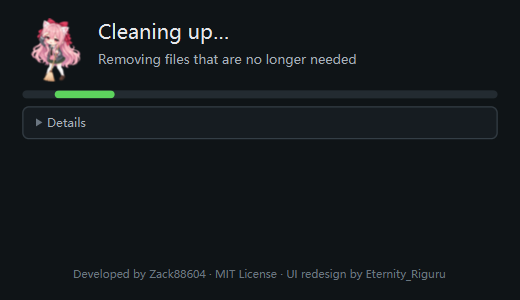
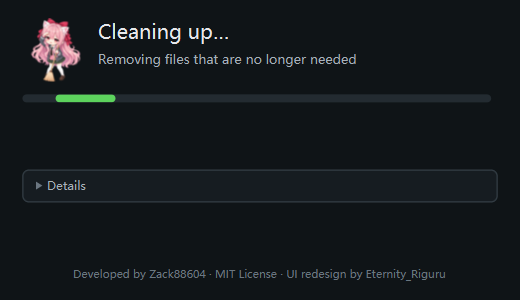
MODIFY: The updater will no longer automatically close the window when it is in an ERROR state, making it easier for users to view the logs

diff --git a/agent/javafx/JavaFxUpdateView.java b/agent/javafx/JavaFxUpdateView.java
@@ -375,6 +375,10 @@ class JavaFxUpdateView implements UpdateView {
         lblStatus.setText("Update failed");
         lblDescription.setText(msg);
         showLog("[ERROR] " + msg);
+        if (debug) {
+            setCloseEnabled(true);
+            showLog("[DEBUG] Update check failed. Window stays open for inspection.");
+        }
     }
 
     /** Enable or disable the debug close button. */
@@ -461,11 +465,13 @@ class JavaFxUpdateView implements UpdateView {
                 // (e.g. a previous 100%), expands Details and shows a few
                 // more log rows for the failure context. The row count is
                 // raised before expanding so the expansion-driven resize
-                // sees the final content height.
+                // sees the final content height. The bar's row stays managed
+                // (only its visibility is toggled) so the Details pane below
+                // keeps a fixed position and never jumps as the bar appears
+                // or disappears.
                 overallBar.setProgress(0);
                 lblOverallPct.setText("");
                 overallArea.setVisible(false);
-                overallArea.setManaged(false);
                 logArea.setPrefRowCount(10);
                 detailsPane.setExpanded(true);
                 root.getStyleClass().add("error-state");
@@ -482,33 +488,32 @@ class JavaFxUpdateView implements UpdateView {
         applyWindowHeight();
     }
 
-    /** Hide the overall percentage label, clearing any stale text. */
+    /** Hide the overall percentage label, clearing any stale text. The label
+     *  stays managed (only its width slot collapses) so the overall row keeps
+     *  its height — the 12px label is taller than the 8px bar, so un-managing
+     *  it would shrink the row and shift the Details pane below. */
     private void clearOverallPercent() {
         lblOverallPct.setText("");
         lblOverallPct.setVisible(false);
-        lblOverallPct.setManaged(false);
+        lblOverallPct.setPrefWidth(0);
     }
 
     /** Show the overall percentage label next to the bar. */
     private void showOverallPercent() {
         lblOverallPct.setVisible(true);
-        lblOverallPct.setManaged(true);
+        lblOverallPct.setPrefWidth(44);
     }
 
-    /** Reveal the current-file area; grows the window only on the show/hide flip. */
+    /** Reveal the current-file area. Its row is always reserved in the layout,
+     *  so showing it changes no heights and the window never resizes on the flip. */
     private void showDownloadArea() {
-        boolean wasVisible = dlArea.isVisible();
         dlArea.setVisible(true);
-        dlArea.setManaged(true);
-        if (!wasVisible) {
-            applyWindowHeight();
-        }
     }
 
-    /** Hide and clear the current-file area. */
+    /** Hide and clear the current-file area. The row stays managed so the
+     *  Details pane below keeps a fixed position. */
     private void hideDownloadArea() {
         dlArea.setVisible(false);
-        dlArea.setManaged(false);
         lblDlFile.setText("");
         dlBar.setProgress(0);
         lblDlSpeed.setText("");
@@ -903,8 +908,9 @@ class JavaFxUpdateView implements UpdateView {
         dlBar.getStyleClass().add("file-progress");
         lblDlSpeed.getStyleClass().add("download-speed");
         dlArea.getChildren().addAll(lblDlFile, dlBar, lblDlSpeed);
+        // Starts hidden but keeps its row in the layout (managed stays true):
+        // reserving the space pins the Details pane below it to one position.
         dlArea.setVisible(false);
-        dlArea.setManaged(false);
 
         // Details area: Server URL, Game Directory and the full log. Collapsed
         // in normal mode, expanded in debug mode (and on error).

diff --git a/agent/src/UpdateController.java b/agent/src/UpdateController.java
@@ -30,6 +30,10 @@ final class UpdateController implements UpdateListener, UpdateViewListener {
     private final CountDownLatch latch;
     private final boolean debug;
 
+    /** True once the flow has ended in failure — the window then stays open and
+     *  only closes when the user closes it (exiting without launching Minecraft). */
+    private volatile boolean failed;
+
     private volatile UpdateView view;
 
     UpdateController(UpdateService service, UiDispatcher dispatcher,
@@ -114,11 +118,20 @@ final class UpdateController implements UpdateListener, UpdateViewListener {
 
     @Override
     public void onWindowClosed() {
+        if (failed) {
+            // The update failed — never launch Minecraft; close the JVM instead.
+            System.exit(1);
+            return;
+        }
         latch.countDown();
     }
 
     @Override
     public void onCloseRequested() {
+        if (failed) {
+            System.exit(1);
+            return;
+        }
         latch.countDown();
         dispatcher.invoke(view::close);
     }
@@ -126,15 +139,18 @@ final class UpdateController implements UpdateListener, UpdateViewListener {
     // ── Application flow ────────────────────────────────────────────
 
     /**
-     * The update completed. Failed files kill the process; otherwise release the
-     * latch so Minecraft can start. All delays and window management live here,
-     * not in the view. Runs on the UI thread.
+     * The update completed. A failed update stays open — the window only closes
+     * when the user closes it, exiting the JVM (code 1) so Minecraft never
+     * launches with broken files. A successful run releases the latch so
+     * Minecraft can start, closing the window after a short delay (or, in debug,
+     * leaving it open for inspection). All delays and window management live
+     * here, not in the view. Runs on the UI thread.
      */
     private void onUpdateFinished(UpdateResult result) {
         if (result.failed > 0) {
+            failed = true;
             view.showLog("[FATAL] " + result.failed
-                    + " file(s) failed to update, killing Minecraft process...");
-            delayThen(2000, () -> System.exit(1));
+                    + " file(s) failed to update. Minecraft will not start; close the window to exit.");
         } else if (debug) {
             // Release now; the window stays open for inspection.
             latch.countDown();
@@ -148,14 +164,14 @@ final class UpdateController implements UpdateListener, UpdateViewListener {
     }
 
     /**
-     * The update threw an exception — print the stack trace and terminate the
-     * JVM after a short grace period so the error stays visible. Runs on the
-     * UI thread.
+     * The update threw an exception — print the stack trace and stay open so the
+     * error can be read. The window closes only when the user closes it, exiting
+     * the JVM (code 1) without launching Minecraft. Runs on the UI thread.
      */
     private void onUpdateError(Throwable cause) {
         cause.printStackTrace();
-        view.showLog("[FATAL] Killing Minecraft process...");
-        delayThen(1000, () -> System.exit(1));
+        failed = true;
+        view.showLog("[FATAL] Update failed. Minecraft will not start; close the window to exit.");
     }
 
     /** Run an action once after a delay on a daemon thread. No Swing involved. */

diff --git a/agent/src/UpdateGUI.java b/agent/src/UpdateGUI.java
@@ -128,6 +128,12 @@ class UpdateGUI extends JFrame implements UpdateView {
         resetDownloadProgressBar();
         appendLog("[ERROR] " + message);
         JOptionPane.showMessageDialog(this, message, "Update Error", JOptionPane.ERROR_MESSAGE);
+        // The error window stays open until the user closes it — make the debug
+        // Close button usable once the modal dialog is dismissed.
+        if (debug) {
+            setCloseEnabled(true);
+            appendLog("[DEBUG] Update check failed. Window stays open for inspection.");
+        }
     }
 
     /** Enable or disable the close button (used in debug mode). */

diff --git a/README_CN.md b/README_CN.md
@@ -143,7 +143,7 @@ server=http://cdn1.example.com:25565,http://cdn2.example.com:8443
 - **总体进度** — 细进度条 + 旁边的百分比（在 Preparing/Cleaning 不确定阶段隐藏）。
 - **当前文件区域** — 正在下载的文件/JAR：路径、单文件进度条、下载速度；空闲时隐藏。
 - **Details（可折叠）** — 服务器地址、游戏目录与完整日志；默认折叠，出错与调试模式下自动展开。
-- **关闭窗口** — 更新进行中关闭会弹窗确认（“Quit update?”）；成功/失败的终态阶段直接关闭。调试模式额外提供一个 Close 按钮，流程允许前保持禁用。
+- **关闭窗口** — 更新进行中关闭会弹窗确认（“Quit update?”）。终态阶段：成功会短暂延迟后自动关闭；失败（错误状态）则保持窗口打开，直到用户手动关闭——关闭错误窗口后进程退出、不启动 Minecraft。调试模式额外提供一个 Close 按钮，流程允许前保持禁用。
 
 ### JavaFX 视图（独立 helper JVM）
 

diff --git a/README.md b/README.md
@@ -151,9 +151,10 @@ infers it from status text.
 - **Details** (collapsible) — server URL, game directory and the full log.
   Collapsed by default, auto-expanded on error and in debug mode.
 - **Closing the window** — while an update is running the close request asks for
-  confirmation ("Quit update?"); in the terminal Success/Error phases it closes
-  directly. Debug mode adds a Close button that stays disabled until the flow
-  allows it.
+  confirmation ("Quit update?"). In the terminal phases, Success auto-closes after
+  a short delay, while an Error stays open until the user closes it — closing the
+  error window exits the process without launching Minecraft. Debug mode adds a
+  Close button that stays disabled until the flow allows it.
 
 ### JavaFX view (helper JVM)
 
